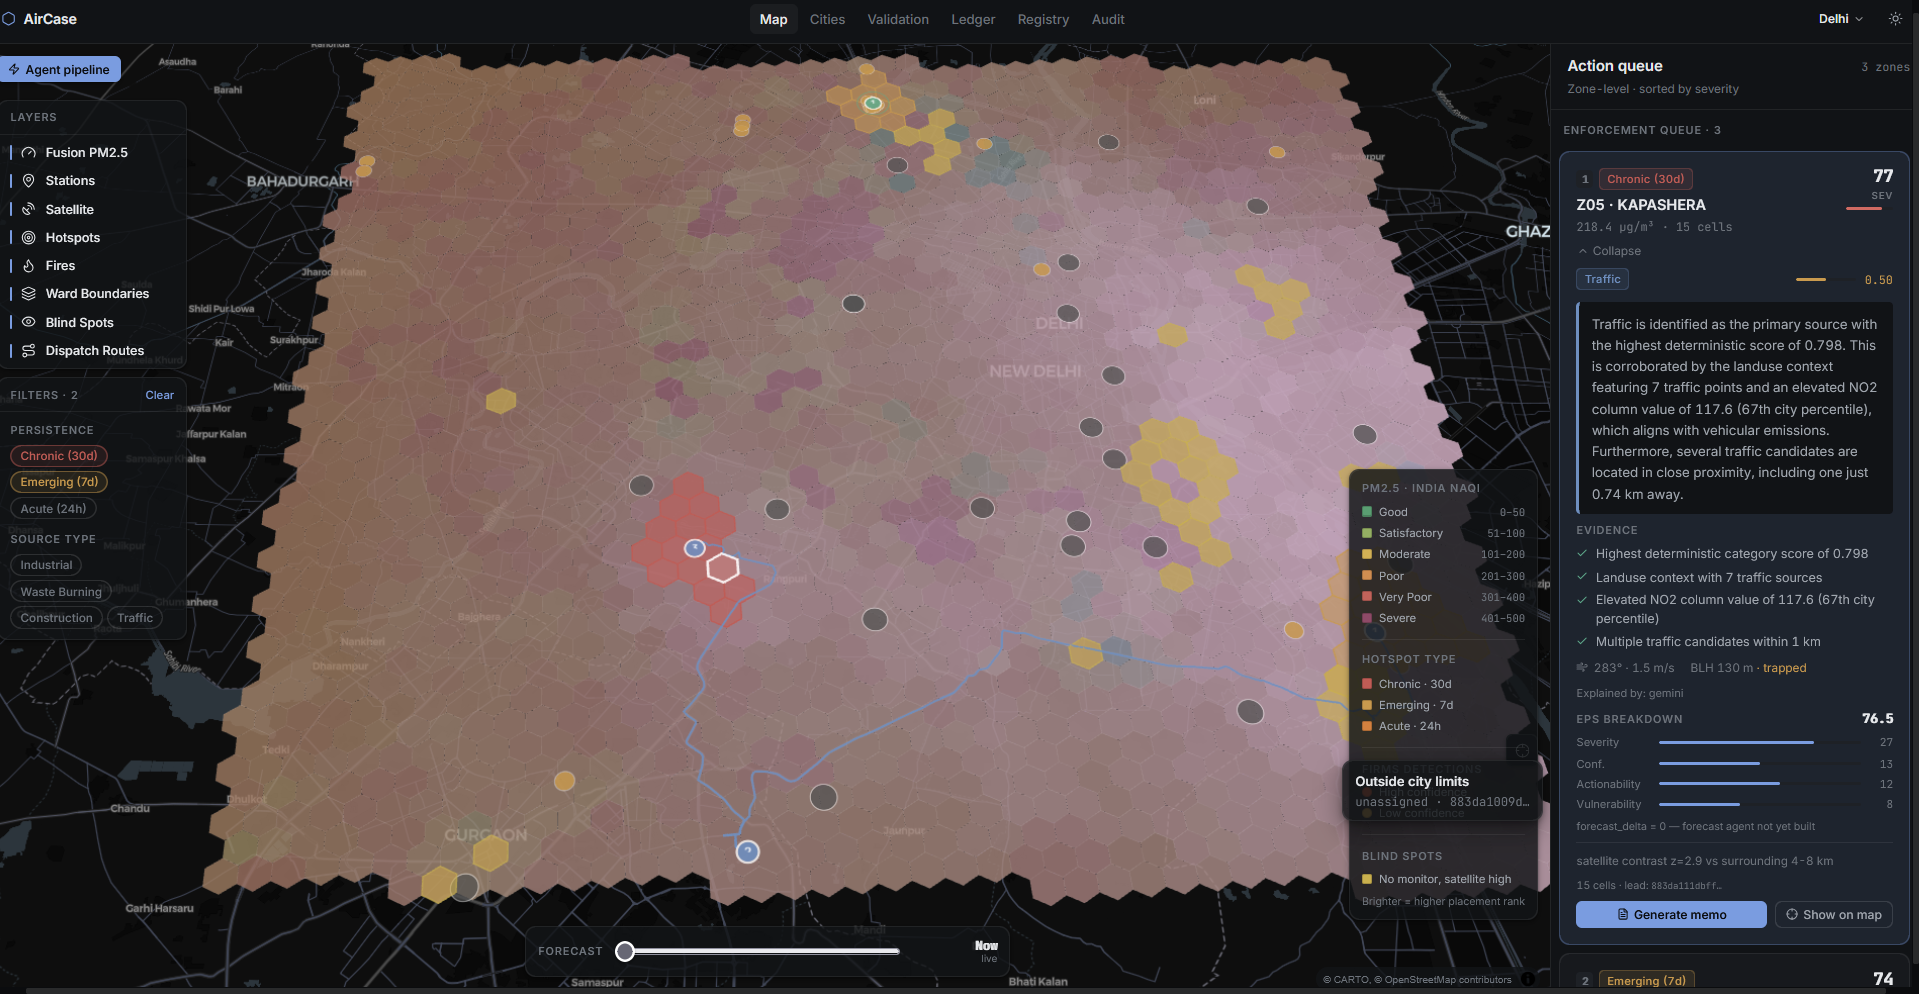
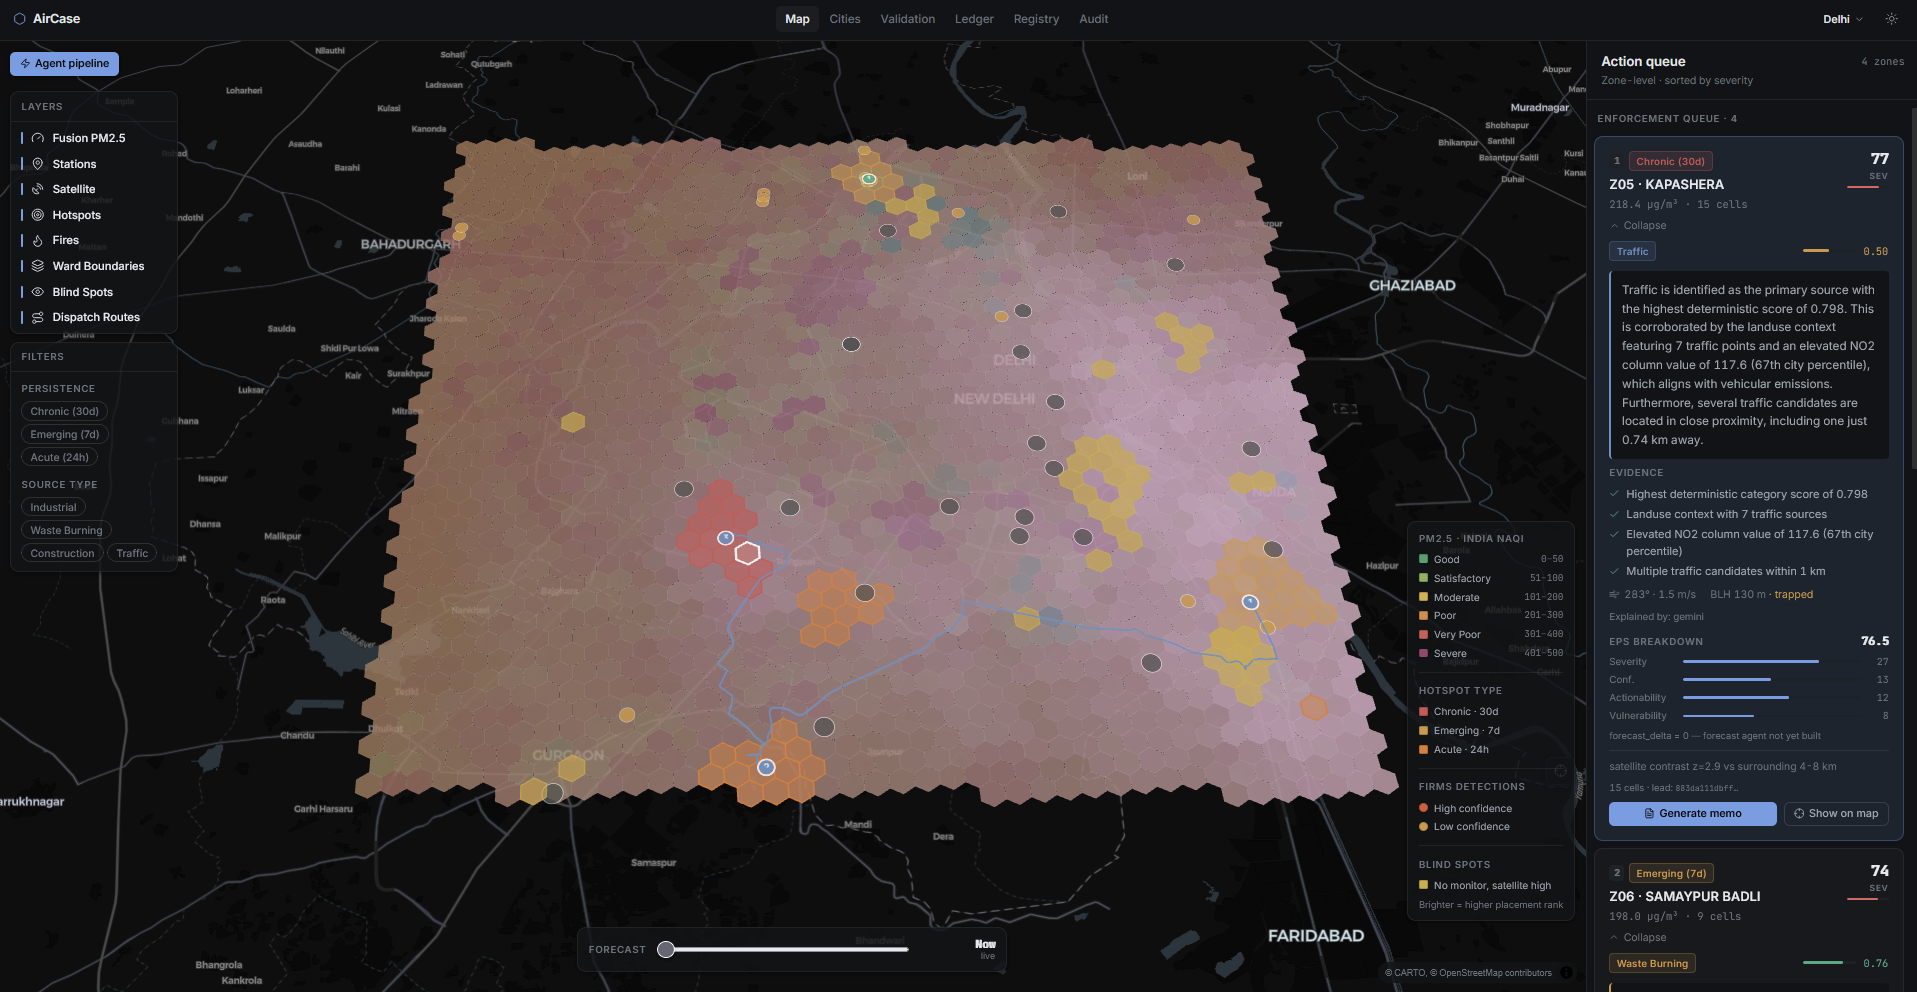
docs(readme): show the product — eight screenshots, one theme, real data
The README argued for 500 lines without showing anything. Eight screenshots now
carry the argument, all dark theme against real Delhi and Chennai data.

Hero: the enforcement console with a chronic KAPASHERA zone selected — attributed
source, evidence chain, EPS breakdown, a routed inspection drawn on the map.

Three citizen shots side by side, because together they are the whole product
facing a resident: why the air is bad, how much to trust the number, and what to
do about it. The middle one earns its place — "the nearest government monitor is
6.7 km away. There is no sensor in your ward, so this number is an estimate built
from satellite data, weather and local land use — not a measurement. Most of this
city has no monitor; showing you a number without saying so would be the
dishonest part." That is this README's whole thesis, stated inside the product
rather than about it.

The ward-finder shot goes in the citizen loop section: a citizen never types a
ward ID, they search, share location, or tap the hexagon they are standing in.

Chennai sits under the multi-city claim — twelve enforcement zones on a satellite
feed 26% complete with three stations for eleven million people.

The ledger sits beside the row it proves: response time measured, effectiveness
explicitly NOT measured, with the reason on screen.

Light-theme captures dropped rather than mixed. A README with two themes reads as
an accident.
[…]

diff --git a/README.md b/README.md
@@ -28,40 +28,46 @@ names them with an inspectable evidence chain, and reports honestly on what it
 **cannot** see.
 
 <p align="center">
-  <img src="./docs/img/console-map.png" alt="AirCase admin console: a Delhi hotspot zone selected, showing its attributed source, evidence chain and EPS breakdown beside the map" width="100%" />
+  <img src="./docs/img/console-map.png" alt="AirCase enforcement console: a Delhi hotspot zone selected, showing its attributed source, evidence chain, EPS breakdown and a routed inspection" width="100%" />
 </p>
 
 <p align="center">
   <sub><b>The enforcement console.</b> A chronic zone in KAPASHERA, attributed to
-  traffic, with the deterministic score, the evidence behind it, the EPS breakdown,
-  and a one-click memo. Every layer on the left is a real instrument.</sub>
+  traffic, with the deterministic score, the evidence behind it, the EPS
+  breakdown, a routed inspection and a one-click memo. Every layer on the left is
+  a real instrument.</sub>
 </p>
 
 <p align="center">
-  <img src="./docs/img/citizen-ward.png" alt="AirCase citizen view for MUNIRKA ward: AQI 404 Severe, a why-your-air-is-like-this panel, and a statement that the reading is a model estimate" width="45%" />
-  &nbsp;&nbsp;
-  <img src="./docs/img/citizen-forecast.png" alt="AirCase citizen view on mobile: nearest monitor distance, the ward advisory, and a 3-hourly forecast naming the cleanest and worst hours" width="45%" />
+  <img src="./docs/img/citizen-ward.png" alt="AirCase citizen view for PERAGHARHI: AQI 403 Severe, with a panel explaining that no source was attributed here" width="31%" />
+  &nbsp;
+  <img src="./docs/img/citizen-forecast.png" alt="Same ward scrolled: the nearest monitor is 6.7 km away, the advisory, and a 3-hourly forecast naming the cleanest and worst hours" width="31%" />
+  &nbsp;
+  <img src="./docs/img/citizen-report.png" alt="The citizen report form: pollution type, optional photo, optional description" width="31%" />
 </p>
 
 <p align="center">
-  <sub><b>The same platform, facing the citizen.</b> AQI 404 is the number every
-  app shows. The panels under it are the ones nobody else does.</sub>
+  <sub><b>The same platform, facing the citizen.</b> AQI 403 is the number every
+  app shows. The three panels under it are the ones nobody else does.</sub>
 </p>
 
-**Why your air is like this.** In this ward it says *no source was attributed* —
-because none was. Our instruments found nothing standing out here, and the panel
-says so rather than inventing a cause. Where a source *is* found, its evidence
-chain appears in the same place.
+**Why your air is like this.** Here it says *no source was attributed in your
+ward* — because none was. Our instruments found nothing standing out, and the
+panel says so rather than inventing a cause. Where a source *is* found, its
+evidence chain appears in the same place.
 
-**How much to trust this number.** Left: a model estimate for the ward, not a
-measurement at the doorstep. Right, a different ward: *the nearest government
-monitor is 0.8 km away, so this reading is anchored to a real instrument.* The
-claim changes with the evidence, because most of the city has no monitor within
-kilometres and a product that hides that is selling certainty it does not have.
+**How much to trust this number.** *"The nearest government monitor is 6.7 km
+away. There is no sensor in your ward, so this number is an estimate built from
+satellite data, weather and local land use — not a measurement. Most of this city
+has no monitor; showing you a number without saying so would be the dishonest
+part."* Where a monitor **is** close, the same panel says so instead. The claim
+tracks the evidence.
 
-**When to go outside.** Cleanest around 10am at AQI 268, worst around 4pm at 376
-— from the 3-hourly forecast. The swing across a single day is larger than the
-change from one day to the next, which is exactly what a 24-hour forecast hides.
+**When to go outside, and how to talk back.** Cleanest around 10am at AQI 271,
+worst around 7pm at 383 — the swing across one day is larger than the change from
+one day to the next, which is exactly what a 24-hour forecast hides. And the
+report form turns a resident into the one instrument that sees construction dust,
+which no satellite can.
 
 ---
 
@@ -327,6 +333,16 @@ human sensors"* — and, uniquely, the only instrument that can see the construc
 dust the satellite is blind to. The intake is a live Telegram bot (and a web form
 against the same endpoint), deployed on n8n behind automatic HTTPS.
 
+<p align="center">
+  <img src="./docs/img/citizen-find-ward.png" alt="AirCase citizen entry: citywide AQI, search by ward name, use my location, or tap the map" width="34%" />
+</p>
+
+<p align="center">
+  <sub>A citizen never types a ward ID. Search by name, share location, or tap the
+  hexagon they are standing in — and the citywide number is there before they
+  pick, so the page is useful on the first screen.</sub>
+</p>
+
 ```mermaid
 flowchart LR
     U["Citizen<br/><small>“Bhalswa mein kachra<br/>jal raha hai”</small>"] --> TG["Telegram / web form"]
@@ -390,6 +406,18 @@ Because a README that oversells is the same bug as a metric that oversells.
 | **Frontend — Next.js + deck.gl console** | ✅ **deployed.** Admin console and citizen view live on Vercel, reading the live API with a static-bundle fallback so the map still renders if the backend is down |
 | GEE Sentinel-5P collector | ✅ **built and wired** — real `COPERNICUS/S5P` extraction; it produced the real Delhi result. Live satellite needs GEE auth on the run machine (`gcloud auth application-default login`); until then synthetic mode runs fully offline |
 | **Intervention effectiveness** | ❌ **not claimed.** The ledger freezes the +48 h counterfactual at dispatch and waits for a real actioned outcome. Zero of four actions are actioned, so `our_impact` is `null`. Response *time* is real; response *effect* is not yet measurable |
+
+<p align="center">
+  <img src="./docs/img/ledger.png" alt="AirCase intervention ledger: response time marked measured, effectiveness marked not yet measured, with the reason stated" width="62%" />
+</p>
+
+<p align="center">
+  <sub>The ledger keeps those two apart on purpose. <b>Response time: measured.</b>
+  <b>Effectiveness: not yet measured</b> — "nobody has acted on these yet, so we do
+  not claim an impact number; attributing natural change to ourselves would be
+  dishonest." A product that reported an impact here would be easy to build and
+  impossible to defend.</sub>
+</p>
 | Voice advisory **audio** (TTS) | ✅ real — Google TTS, 71 clips per city, played in the citizen view and pushed as Telegram voice notes |
 | Network audit — monitoring blind spots | ✅ real — **21 of 1,703 Delhi cells are monitored**; the 40 worst blind spots are ranked into a next-sensor placement list |
 | Multi-city — one instance, three cities | ✅ real — `?city=` on every endpoint; Delhi, Chennai and Bengaluru all run the same pipeline |
@@ -424,6 +452,17 @@ The console runs the agent chain live: pick an agent (or all nine), set the
 inspection-team count, and watch dispatch recluster. Everything read-only falls
 back to a committed static bundle, so the map still renders if the backend is
 down.
+
+<p align="center">
+  <img src="./docs/img/chennai-zones.png" alt="AirCase console switched to Chennai: twelve enforcement zones in the queue, a different coastline, the same pipeline" width="100%" />
+</p>
+
+<p align="center">
+  <sub><b>Same code, different city.</b> Chennai: twelve enforcement zones, on a
+  satellite feed only 26% complete and three CPCB stations for eleven million
+  people. No new hardware, no city-specific code — a bounding box and a ward
+  layer.</sub>
+</p>
 
 The Telegram loop closes in both directions, in the citizen's own language and
 in their own medium:

diff --git a/docs/img/README.md b/docs/img/README.md
@@ -1,17 +1,26 @@
-Screenshots referenced by the root README.
+Screenshots referenced by the root README. All DARK theme, real Delhi/Chennai
+data — not the synthetic world. Keep the theme consistent when retaking.
 
   console-map.png         admin console — a hotspot zone selected, with its
-                          attributed source, evidence chain and EPS breakdown
-  citizen-ward.png        citizen ward view — AQI, "why your air is like this"
-                          on a ward with no attributed source, and the
-                          estimate-not-measurement caveat
-  citizen-forecast.png    citizen view on mobile — nearest-monitor distance, the
-                          ward advisory, and the 3-hourly forecast with the
-                          cleanest and worst hours named
+                          attributed source, evidence chain, EPS breakdown and a
+                          routed inspection drawn on the map
+  chennai-zones.png       the same console switched to Chennai — twelve
+                          enforcement zones, proving the pipeline is not
+                          Delhi-specific
+  citizen-find-ward.png   citizen entry — citywide AQI, search by name, use my
+                          location, or tap the map
+  citizen-ward.png        a ward view — AQI and "why your air is like this" on a
+                          ward where no source was attributed
+  citizen-forecast.png    the same ward scrolled — nearest-monitor distance, the
+                          advisory, and the 3-hourly forecast with the cleanest
+                          and worst hours named
+  citizen-report.png      the report form — category, optional photo, optional
+                          description
+  ledger.png              the intervention ledger — response time measured,
+                          effectiveness explicitly not measured
   telegram-voice-loop.png the citizen channel both ways — a spoken Hinglish
                           report transcribed and logged, answered with a Hindi
                           audio advisory
 
-Taken against real Delhi data, not the synthetic world. If the UI changes
-materially, retake them: a README showing a version of the product that no
-longer exists is the same bug as a stale metric.
+If the UI changes materially, retake them: a README showing a version of the
+product that no longer exists is the same bug as a stale metric.